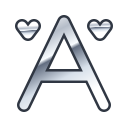
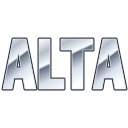
style: troca simbolo por ALTA cromado nas sugestoes

diff --git a/src/alta/suggestions.ts b/src/alta/suggestions.ts
@@ -76,7 +76,7 @@ async function setup(client: Client) {
   // Emojis são cadastrados diretamente na Alta para evitar dependência de emojis externos.
   const existing = await guild.emojis.fetch();
   for (const key of ['alta', 'bulb', 'family', 'internal', 'ideas', 'bot', 'other', 'arrow', 'clock', 'check', 'cross']) {
-    const name = `alta_sug_chrome_${key}`;
+    const name = key === 'alta' ? 'alta_sug_chrome_alta_v2' : `alta_sug_chrome_${key}`;
     try {
       const emoji = existing.find(item => item.name === name) ?? await guild.emojis.create({ name,
         attachment: fileURLToPath(new URL(`../../public/suggestion-emojis/${key}.png`, import.meta.url)), reason: 'Painel cromado de sugestões da Alta' });
